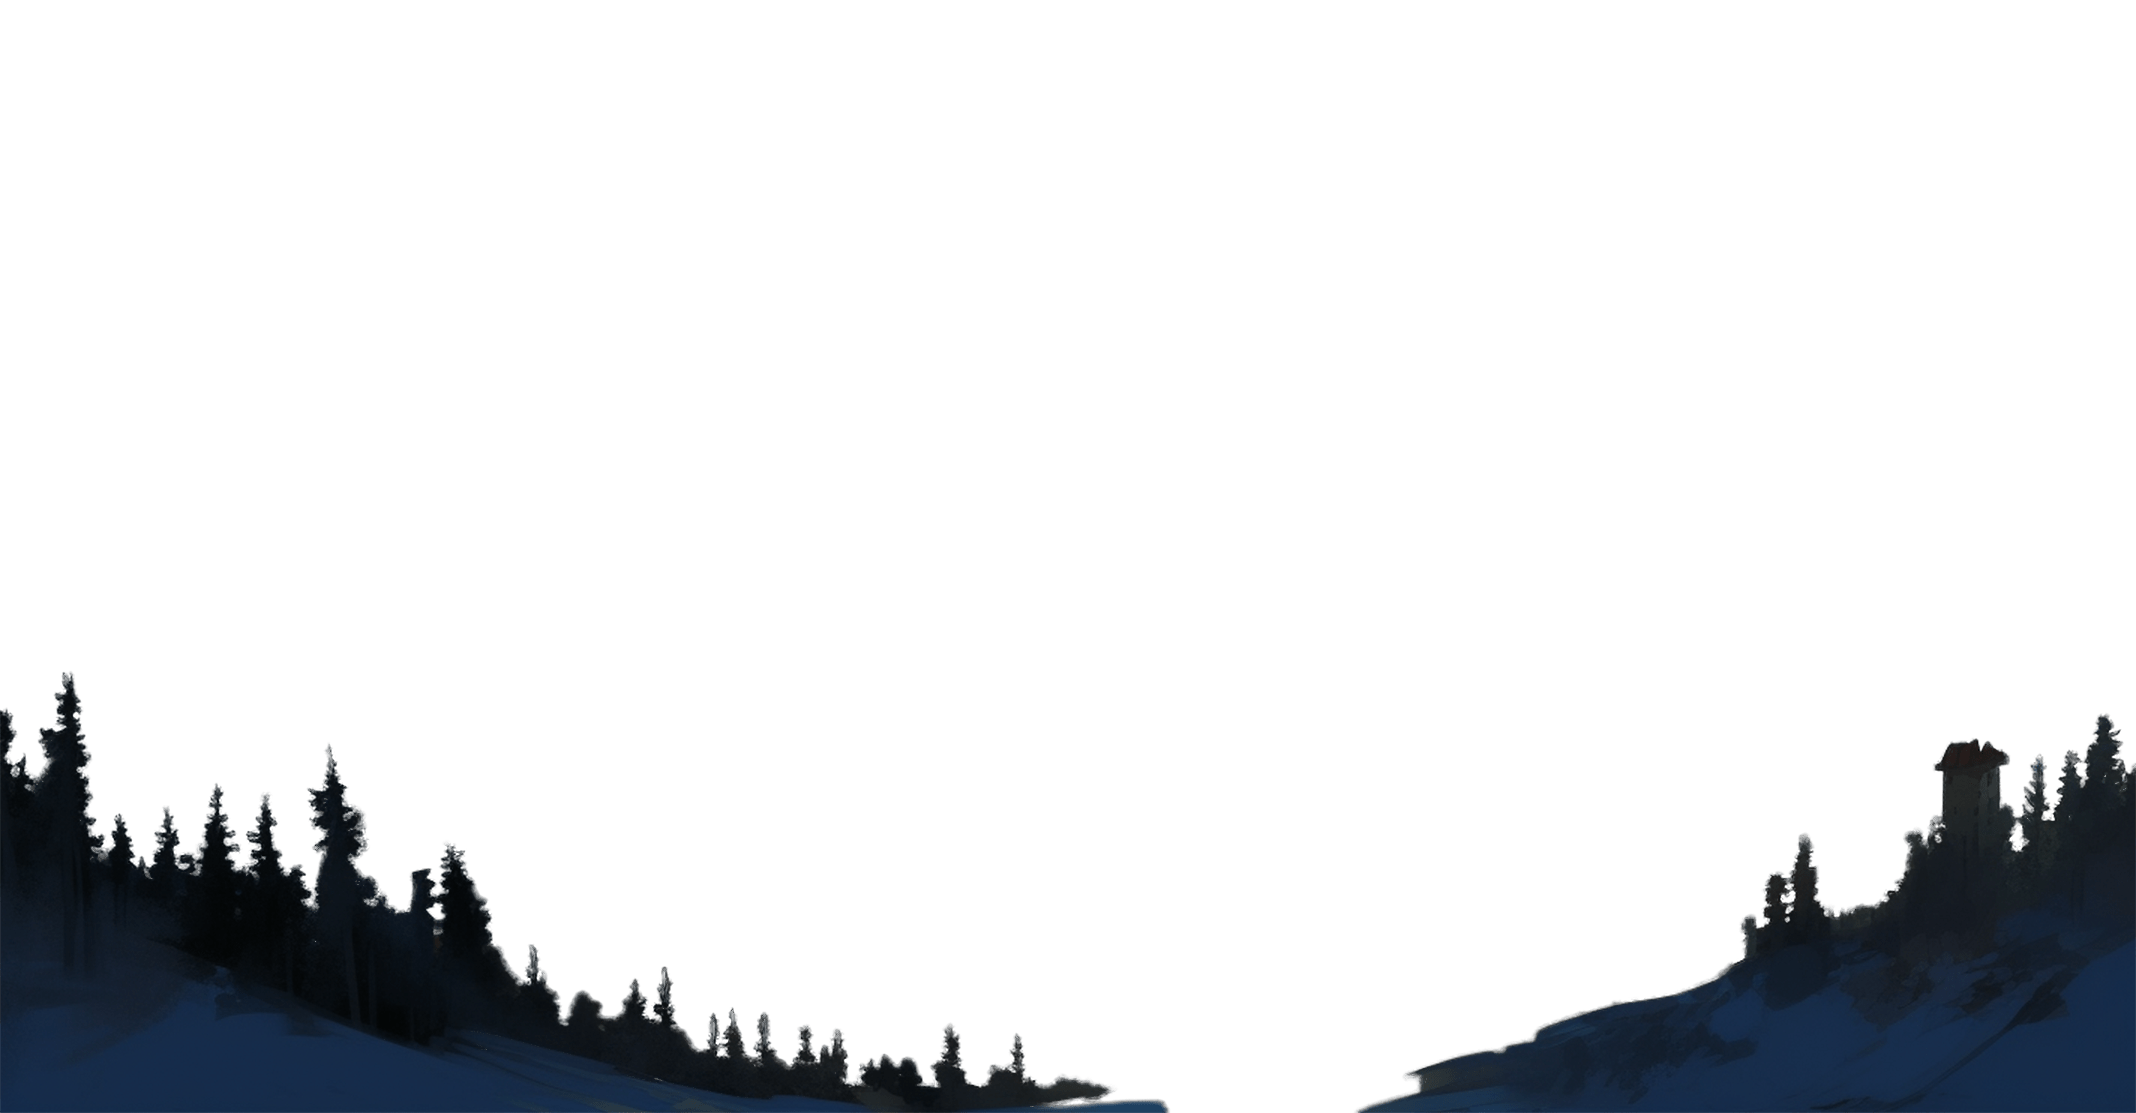
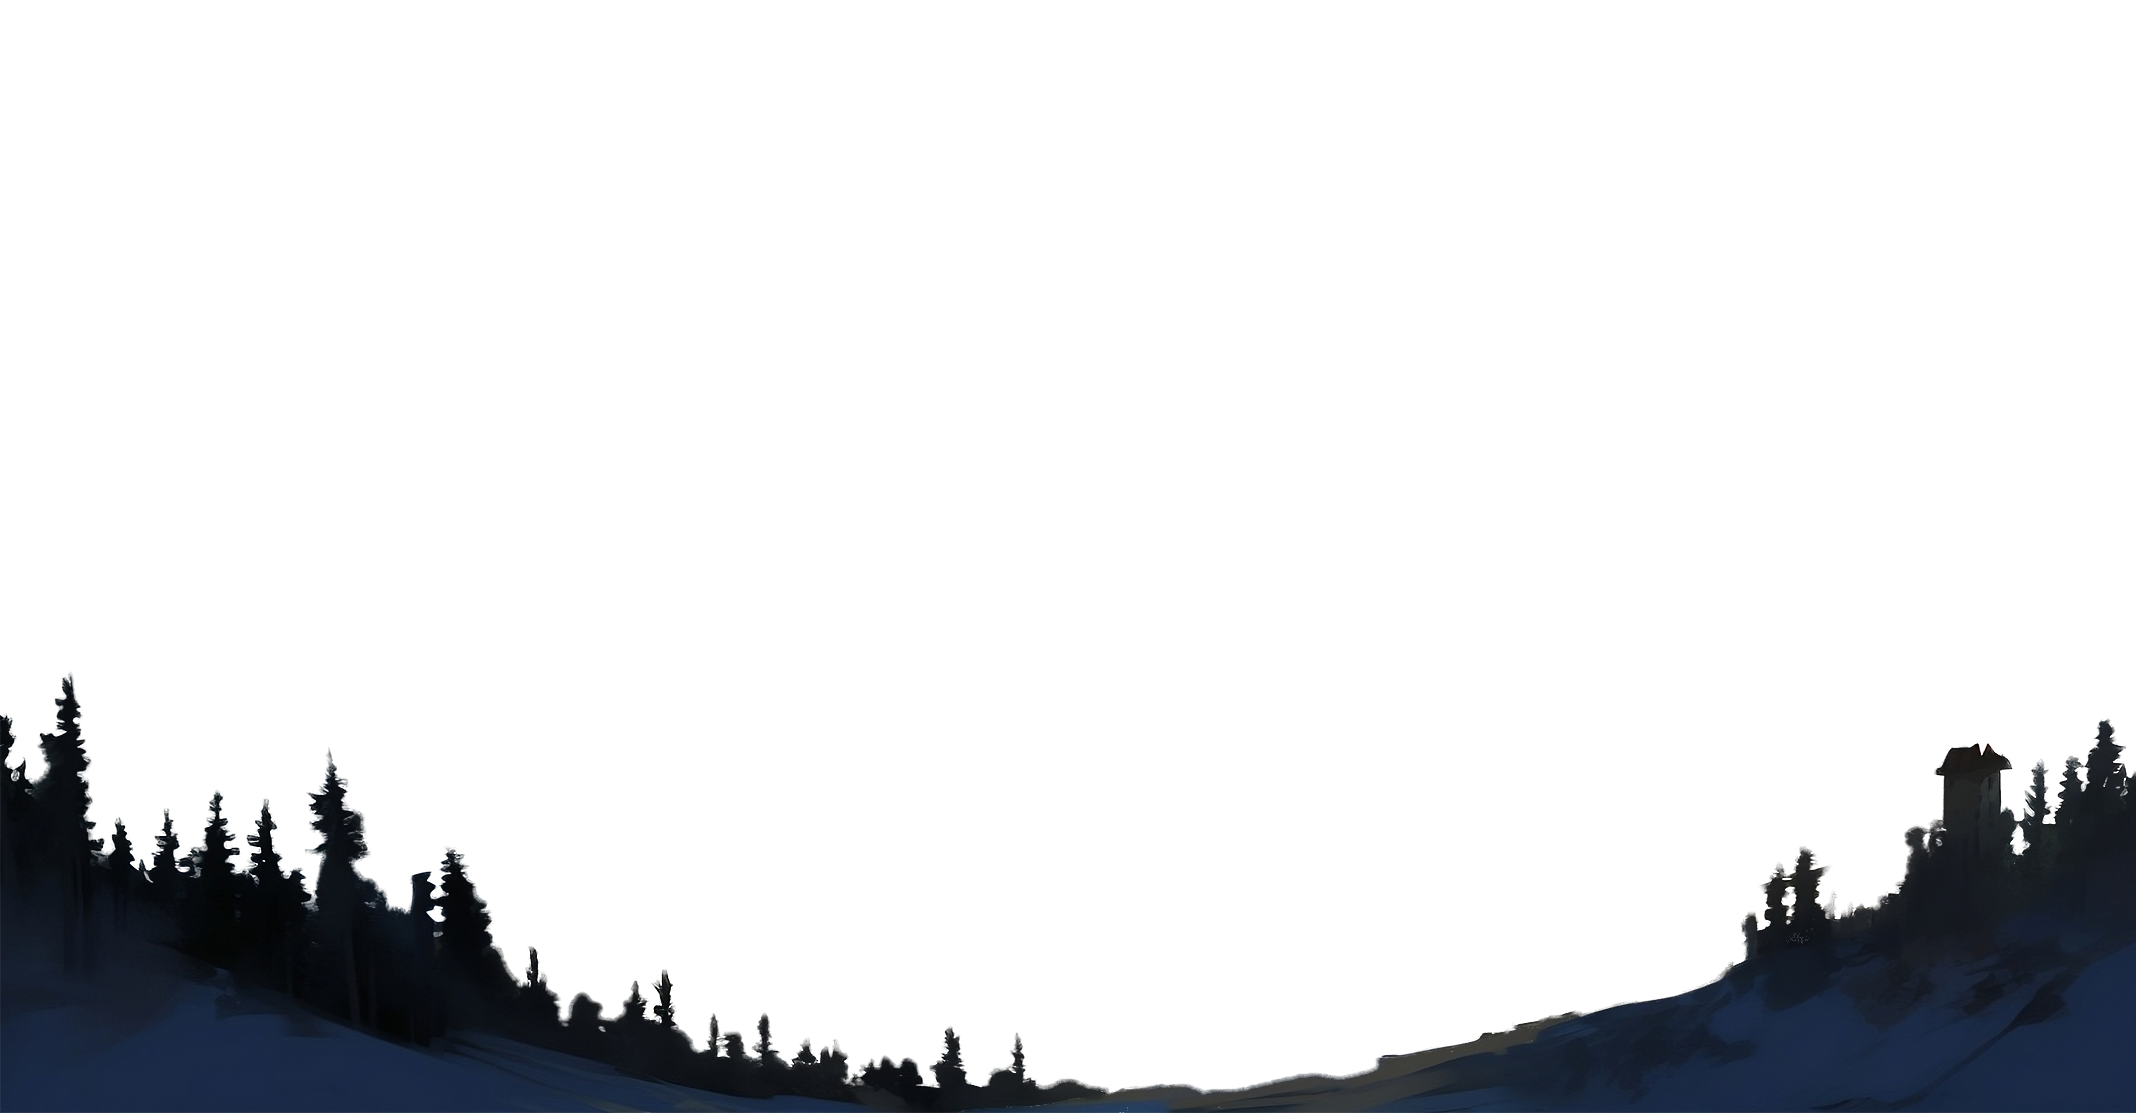
Add more effects, improve quality of images and masks

diff --git a/src/js/index.js b/src/js/index.js
@@ -4,6 +4,7 @@ import gsap from 'gsap';
 import vertexShader from './shaders/vertex.glsl';
 import fragmentShader from './shaders/fragment.glsl';
 import bgFragmentShader from './shaders/bg-fragment.glsl';
+import cityFragmentShader from './shaders/city-fragment.glsl';
 
 let elapsedTime = 0;
 
@@ -13,6 +14,10 @@ const canvas = /** @type {HTMLCanvasElement} */ (
 
 const menuBackgroundOpacity = {
   value: 0,
+};
+
+const resolution = {
+  value: new THREE.Vector2(window.innerWidth, window.innerHeight),
 };
 
 document.addEventListener('DOMContentLoaded', () => {
@@ -102,7 +107,7 @@ const uniformsBackground = {
   u_texture: { value: loader.load('/scenery.jpg') },
   u_mask: { value: maskTexture },
   u_time: { value: 0.0 },
-  u_resolution: { value: new THREE.Vector2() },
+  u_resolution: resolution,
   u_mouse: { value: { x: 0.0, y: 0.0 } },
   u_duration: { value: 8.0 },
 };
@@ -111,7 +116,7 @@ const materialBackground = new THREE.ShaderMaterial({
   uniforms: uniformsBackground,
   vertexShader,
   fragmentShader: bgFragmentShader,
-  transparent: true,
+  transparent: false,
   side: THREE.FrontSide,
 });
 
@@ -135,13 +140,13 @@ menuGeometry.translate(window.innerWidth / 5, 0, 0);
 const menuUniforms = {
   u_texture: { value: loader.load('/menu.png') },
   u_time: { value: 0.0 },
-  u_resolution: { value: new THREE.Vector2() },
+  u_resolution: resolution,
   u_mouse: { value: { x: 0.0, y: 0.0 } },
   u_duration: { value: 8.0 },
   u_opacity: menuBackgroundOpacity,
 };
 
-const material = new THREE.ShaderMaterial({
+const menuMaterial = new THREE.ShaderMaterial({
   uniforms: menuUniforms,
   vertexShader,
   fragmentShader,
@@ -152,8 +157,9 @@ const material = new THREE.ShaderMaterial({
 
 // fix transparent invisible bug
 
-const menuPlane = new THREE.Mesh(menuGeometry, material);
-scene.add(menuPlane);
+const menu = new THREE.Mesh(menuGeometry, menuMaterial);
+menu.position.z = 2;
+scene.add(menu);
 
 const smokeTexture = new THREE.TextureLoader().load('/smoke.png');
 // scene.background = smokeTexture;
@@ -185,7 +191,6 @@ for (let smokeIndex = 0; smokeIndex < 15; smokeIndex += 1) {
   smokeElements.push(smokeElement);
 }
 
-onWindowResize();
 if ('ontouchstart' in window) {
   document.addEventListener('touchmove', handleTouchMove);
 } else {
@@ -193,16 +198,14 @@ if ('ontouchstart' in window) {
   document.addEventListener('mousemove', handleMouseMove);
 }
 
-/** @param {MouseEvent} event */
-function handleMouseMove(event) {
-  menuUniforms.u_mouse.value.x = event.clientX;
-  menuUniforms.u_mouse.value.y = event.clientY;
+/** @param {MouseEvent} _event */
+function handleMouseMove(_event) {
+  // pass
 }
 
-/** @param {TouchEvent} event */
-function handleTouchMove(event) {
-  menuUniforms.u_mouse.value.x = event.touches[0].clientX;
-  menuUniforms.u_mouse.value.y = event.touches[0].clientY;
+/** @param {TouchEvent} _event */
+function handleTouchMove(_event) {
+  // pass
 }
 
 /***** TREES *****/
@@ -218,23 +221,93 @@ const treesMaterial = new THREE.MeshBasicMaterial({
 });
 
 const trees = new THREE.Mesh(treesGeometry, treesMaterial);
-trees.position.y = window.innerHeight * 0.05;
-trees.position.z = 10;
 
 // scale up trees
-trees.scale.set(1.1, 1.1);
+const treesScaleTo = 1.03;
+trees.scale.set(treesScaleTo, treesScaleTo, 1);
+trees.position.y = -window.innerHeight * (1 - 1 / treesScaleTo);
+trees.position.z = 10;
 
 scene.add(trees);
 /***** END TREES *****/
 
+/***** CITY LAYER *****/
+const cityTexture = new THREE.TextureLoader().load('/city.png');
+const cityGeometry = new THREE.PlaneGeometry(
+  window.innerWidth,
+  window.innerHeight
+);
+
+// load river-mask texture
+const riverMaskTexture = new THREE.TextureLoader().load('/river-mask.png');
+
+// load water-displacement texture
+const waterDisplacementTexture = new THREE.TextureLoader().load(
+  '/water-displacement.jpg'
+);
+
+const uniformsCity = {
+  u_texture: { value: cityTexture },
+  u_river_mask: { value: riverMaskTexture },
+  u_water_displacement: { value: waterDisplacementTexture },
+  u_time: { value: 0.0 },
+  u_resolution: resolution,
+};
+
+const cityMaterial = new THREE.ShaderMaterial({
+  transparent: true,
+  side: THREE.FrontSide,
+  vertexShader,
+  fragmentShader: cityFragmentShader,
+  uniforms: uniformsCity,
+});
+
+const city = new THREE.Mesh(cityGeometry, cityMaterial);
+city.position.z = 1;
+
+city.scale.set(1.1, 1.1, 1);
+
+scene.add(city);
+/***** END CITY LAYER *****/
+
+/***** EXPLOSION LAYER *****/
+const explosionTexture = new THREE.TextureLoader().load('/explosion.png');
+const explosionGeometry = new THREE.PlaneGeometry(
+  window.innerWidth,
+  window.innerHeight
+);
+
+// standard material
+const explosionMaterial = new THREE.MeshBasicMaterial({
+  transparent: true,
+  map: explosionTexture,
+  side: THREE.FrontSide,
+});
+
+const explosion = new THREE.Mesh(explosionGeometry, explosionMaterial);
+
+explosion.position.y = -30;
+
+explosion.position.z = 0;
+
+// scale up
+explosion.scale.set(1.1, 1.1, 1);
+
+// add explosion
+scene.add(explosion);
+/***** END EXPLOSION LAYER *****/
+
 animate();
 
 function onWindowResize() {
-  const aspectRatio = window.innerWidth / window.innerHeight;
+  const windowWidth = window.innerWidth;
+  const windowHeight = window.innerHeight;
+
+  const aspectRatio = windowWidth / windowHeight;
   let width, height;
   if (aspectRatio >= 1) {
     width = 1;
-    height = (window.innerHeight / window.innerWidth) * width;
+    height = (windowHeight / windowWidth) * width;
   } else {
     width = aspectRatio;
     height = 1;
@@ -244,10 +317,16 @@ function onWindowResize() {
   camera.top = height;
   camera.bottom = -height;
   camera.updateProjectionMatrix();
-  renderer.setSize(window.innerWidth, window.innerHeight);
-  menuUniforms.u_resolution.value.x = window.innerWidth;
-  menuUniforms.u_resolution.value.y = window.innerHeight;
+  renderer.setSize(windowWidth, windowHeight);
+  menuUniforms.u_resolution.value.x = windowWidth;
+  menuUniforms.u_resolution.value.y = windowHeight;
+  uniformsBackground.u_resolution.value.x = windowWidth;
+  uniformsBackground.u_resolution.value.y = windowHeight;
+  uniformsCity.u_resolution.value.x = windowWidth;
+  uniformsCity.u_resolution.value.y = windowHeight;
 }
+
+onWindowResize();
 
 function animate() {
   requestAnimationFrame(animate);
@@ -256,13 +335,26 @@ function animate() {
 
   menuUniforms.u_time.value = elapsedTime;
   uniformsBackground.u_time.value = elapsedTime;
+  uniformsCity.u_time.value = elapsedTime;
 
   smokeElements.forEach((smokeElement) => {
     smokeElement.rotation.z = elapsedTime * 0.12;
   });
 
   // move right to left trees using sin
-  trees.position.x = -Math.sin(elapsedTime * 0.1) * 100;
+  trees.position.x = -Math.sin(elapsedTime * 0.1) * 20;
+
+  city.position.x = Math.sin(elapsedTime * 0.07) * 50;
+
+  // move explosion
+  explosion.position.x = Math.sin(elapsedTime * 0.01) * 15;
+
+  // change explosion scale
+  explosion.scale.set(
+    1.1 + Math.sin(elapsedTime * 0.1) * 0.1,
+    1.1 + Math.sin(elapsedTime * 0.1) * 0.1,
+    1
+  );
 
   renderer.render(scene, camera);
 }

diff --git a/src/sass/_colors.scss b/src/sass/_colors.scss
@@ -1,0 +1,1 @@
+$c-hover: #ffdca4;
